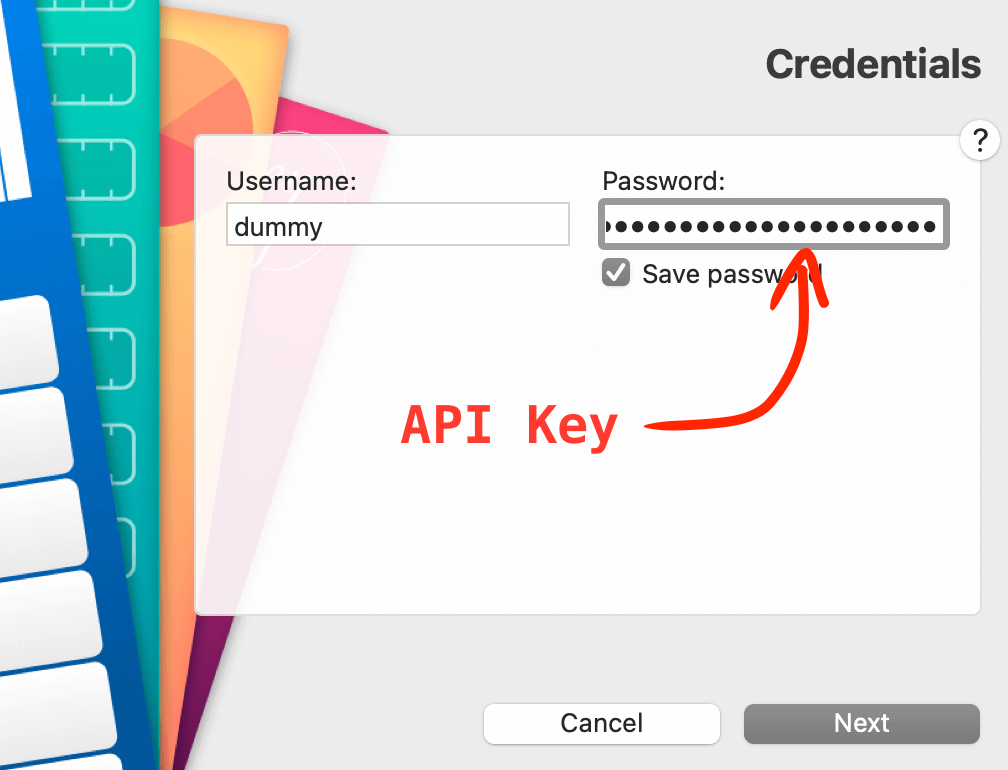
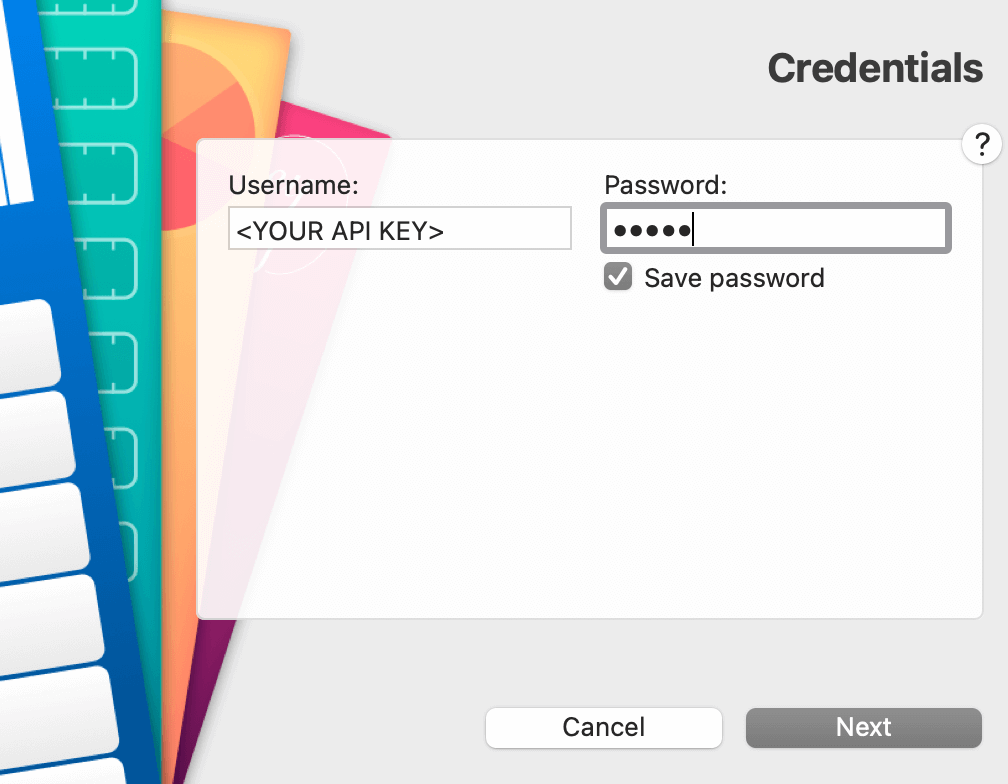
Changed to username as API key field

diff --git a/readme.md b/readme.md
@@ -11,6 +11,6 @@ Instructions
 3. Create a new app ("Register your application" button).
 4. Copy the the MoneyMoney extension Lua file `Splitwise.lua` to the extensions directory (`~/Library/Containers/com.moneymoney-app.retail/Data/Library/Application Support/MoneyMoney`) and restart MoneyMoney.
 5. Create a new account, select "Splitwise" as account type.
-6. Enter `dummy` as username and use your freshly generated API key (result of step 3) as password.
+6. Enter use your freshly generated API key (result of step 3) as username and `dummy` password.
 
 ![ScreenShot](moneymoney-splitwise.png)
